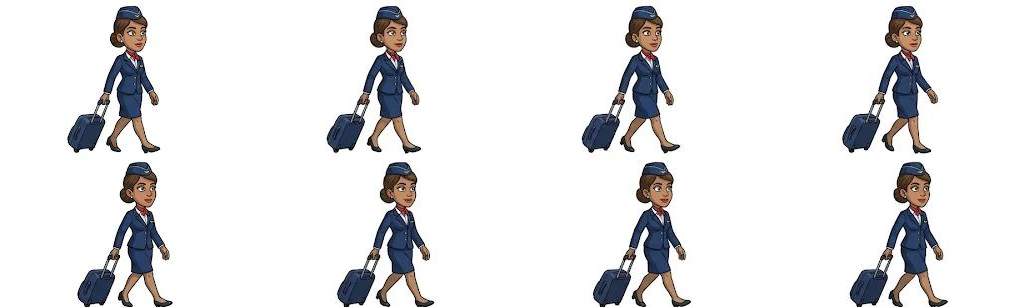
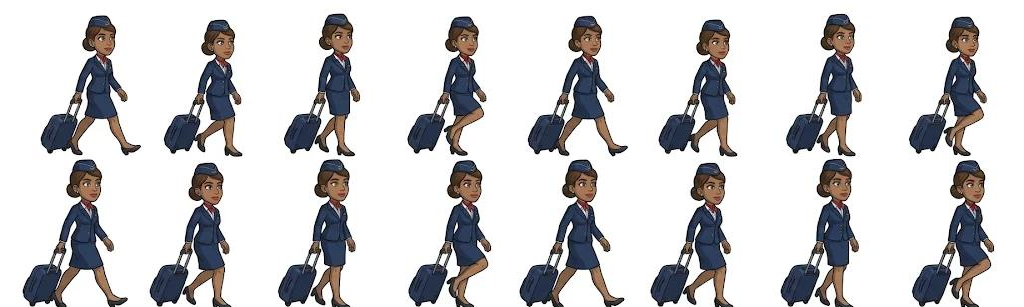
Passos sincronizados com o chão (o pé plantado não patina), comissária e mãe com filha redesenhadas andando, senhor sentado no assento, 10 caixas de coração a mais
Claude-Session: https://claude.ai/code/session_01SnP8B2xQ3sBEFTKc4sXwkj

diff --git a/tools/make_walks.py b/tools/make_walks.py
@@ -3,7 +3,7 @@
 -> assets/sprites/<nome>_walk.png: tira de quadros CW x CH na mesma escala, linha do chão e posição da
 cabeça da arte parada que já existe no jogo (o personagem não "pula" ao trocar de pose).
 Uso: python3 tools/make_walks.py [nome ...]"""
-import os, subprocess, sys, tempfile
+import json, os, subprocess, sys, tempfile
 import numpy as np
 from PIL import Image
 from scipy import ndimage as nd
@@ -16,7 +16,12 @@ JOBS = {
     'pax_cel': ('pax_cel_walk.png', 240, 260, 256, 240, 130, None, True),
     'pax_comissaria': ('pax_comissaria_walk.png', 240, 260, 256, 240, 130, None, True),
     'pax_piloto': ('pax_piloto_walk.png', 240, 260, 256, 240, 130, None, True),
+    'pax_mae': ('pax_mae_walk.png', 340, 260, 256, 240, 220, None, True),
 }
+
+# faixa (em x, relativa à cabeça) onde procurar o pé da frente: o faxineiro empurra a enceradeira
+# bem na frente dos pés, que tem de ficar de fora da conta
+FOOT_LIM = {'fax': (-110, 47)}
 
 def apagado(q):
     """passageiros "de cenário": as mesmas cores, mais apagadas (igual ao make_arte.passageiros)"""
@@ -34,7 +39,7 @@ def furos(p):
     wh = (a[..., :3].min(axis=2) >= 228) & (a[..., 3] > 0)
     lab, n = nd.label(wh)
     for i, sl in enumerate(nd.find_objects(lab)):
-        if (lab[sl] == i + 1).sum() > 260 and sl[0].start > p.height * .25:
+        if (lab[sl] == i + 1).sum() > 40 and sl[0].start > p.height * .25:
             m = nd.binary_dilation(lab == i + 1, iterations=1) & (a[..., :3].min(axis=2) >= 200)
             a[m, 3] = 0
     return Image.fromarray(a, 'RGBA')
@@ -90,9 +95,31 @@ def pieces_grid(src):
     med = np.median([p.height for p in ps])
     return [p for p in ps if p.height > med * .6]
 
+# folhas bagunçadas (fileiras tortas, um desenho solto no meio): recorte à mão, (x0, y0, x1, y1)
+BOXES = {
+    'pax_mae': [(18, 10, 247, 335), (338, 10, 531, 335), (531, 10, 760, 335),
+                (20, 365, 255, 690), (285, 365, 500, 690), (505, 365, 740, 690),
+                (70, 705, 305, 1015), (470, 705, 705, 1015)],
+}
+
+def pieces_boxes(src, boxes):
+    tmp = tempfile.mkdtemp()
+    im = Image.open(src).convert('RGB')
+    ps = []
+    for b in boxes:
+        f = os.path.join(tmp, 'c.png')
+        im.crop(b).save(f)
+        out = subprocess.run([sys.executable, os.path.join(ROOT, 'tools', 'cut_sheet.py'), f, os.path.join(tmp, 'p'), '236', '4'],
+                             check=True, capture_output=True, text=True).stdout.strip().splitlines()
+        best = max(out, key=lambda l: int(l.split()[3]) * int(l.split()[4]))
+        q = Image.open(os.path.join(tmp, 'p_%s.png' % best.split()[0])).convert('RGBA')
+        ps.append(furos(q.crop(q.getbbox())))
+    return ps
+
 def make(name):
     src, CW, CH, BASE, HGT, HX, order, bg = JOBS[name]
-    ps = pieces_grid(os.path.join(ROOT, 'tools', 'art_src', src))
+    srcp = os.path.join(ROOT, 'tools', 'art_src', src)
+    ps = pieces_boxes(srcp, BOXES[name]) if name in BOXES else pieces_grid(srcp)
     if order:
         ps = [ps[i] for i in order]
     sc = HGT / float(np.median([p.height for p in ps]))
@@ -105,6 +132,34 @@ def make(name):
         c = Image.new('RGBA', (CW, CH), (0, 0, 0, 0))
         c.paste(p, (int(round(HX - hx)), BASE - (ys.max() + 1)), p)
         sheet.alpha_composite(c, (i * CW, 0))
+    # ordem dos quadros pelo PÉ DA FRENTE: no passo, o pé da frente pisa lá na frente e vai ficando
+    # para trás (o corpo passa por cima dele) até o outro pé assumir a frente. Ordenando do mais à
+    # frente para o mais atrás, cada volta da tira é um passo, e o comprimento do passo (quanto o pé
+    # plantado recua) diz quanto o corpo anda por volta: o pé fica parado no chão, sem patinar.
+    cells = [sheet.crop((i * CW, 0, (i + 1) * CW, CH)) for i in range(len(ps))]
+    lim = FOOT_LIM.get(name)
+    fr = []
+    for c in cells:
+        a = np.asarray(c)[..., 3] > 100
+        band = a[BASE - int(HGT * .07):BASE + 1]
+        if lim:
+            x0 = max(0, int(HX + lim[0]))
+            band = band[:, x0:int(HX + lim[1])]
+            off = x0
+        else:
+            off = 0
+        xs = np.where(band.any(axis=0))[0]
+        fr.append((xs.max() + off - HX) if len(xs) else 0)
+    order = sorted(range(len(cells)), key=lambda i: -fr[i])
+    step = float(fr[order[0]] - fr[order[-1]])
+    sheet = Image.new('RGBA', (CW * len(cells), CH), (0, 0, 0, 0))
+    for k, i in enumerate(order):
+        sheet.alpha_composite(cells[i], (k * CW, 0))
+    meta_path = os.path.join(ROOT, 'assets', 'data', 'walks.json')
+    meta = json.load(open(meta_path)) if os.path.exists(meta_path) else {}
+    # passo em px do quadro e a altura de referência (o jogo converte pela escala com que desenha)
+    meta[name + '_walk'] = {'n': len(cells), 'cw': CW, 'ch': CH, 'base': BASE, 'hx': HX, 'step': round(max(step, HGT * .3), 1), 'hgt': HGT}
+    json.dump(meta, open(meta_path, 'w'), indent=1, sort_keys=True)
     if bg:
         sheet = apagado(sheet)
     sheet.save(os.path.join(ROOT, 'assets', 'sprites', name + '_walk.png'))

diff --git a/tools/gen_gru.py b/tools/gen_gru.py
@@ -350,7 +350,7 @@ pax(300, "exec", r=[150, 900], spd=.9, re=1)
 pax(620, "cel", r=[480, 860], spd=.5, re=1)
 # mais vida no terminal: gente passando (com passos de verdade) e um senhor cochilando no banco
 pax(1640, "piloto", r=[1560, 2020], spd=.7)
-pax(2236, "dorme", k="sit", y=GY - 34, look=False, z="z")
+pax(2236, "dorme", k="sit", y=GY - 14, look=False, z="z")
 pax(2500, "comissaria", r=[2300, 2720], spd=.8)
 pax(5150, "exec", r=[4980, 5520], spd=1.0)
 pax(6500, "cel", r=[6400, 6820], spd=.5)
@@ -401,7 +401,7 @@ L["walks"].append({"x0": 8010, "x1": 8196, "y": GY, "dir": 1, "spd": 2.4})
 dica(7990, 8090, "Esteira a favor bem antes do vão: corra junto com ela e pule no fim, o embalo leva longe!")
 # contra, embaixo da porta automática de vidro: passe correndo enquanto a porta está aberta
 L["walks"].append({"x0": 8760, "x1": 8996, "y": GY, "dir": -1, "spd": 1.7})
-pax(3170, "mae", k="stand")       # esperando antes da esteira rolante (fora dela)
+pax(3040, "mae", r=[2880, 3160], spd=.6)   # mãe e filha passeando antes da esteira rolante (fora dela)
 painel(3700, 200, 170)
 painel(5150, 180)
 painel(6180, 210)
@@ -926,6 +926,17 @@ milhas(300, 650, 470)
 dica(0, 500, "A pista de Guarulhos, à noite. Lá na frente, o ronco de uma moto...")
 totem(520)
 caixa(760, item="heart")
+# mais caixas de coração pelo caminho (uma a cada trecho, sempre na rota — sem precisar voltar)
+caixa(1600, y=456, item="heart")
+caixa(3660, y=410, item="heart")
+caixa(4880, item="heart")
+caixa(6560, item="heart")
+caixa(7900, item="heart")
+caixa(9050, item="heart")
+caixa(10450, item="heart")
+caixa(12350, item="heart")
+caixa(13450, item="heart")
+caixa(14900, item="heart")
 robo_falso(1000, [850, 1150])
 # vala de drenagem com placas soltas
 L["pits"].append([1200, 1500])
